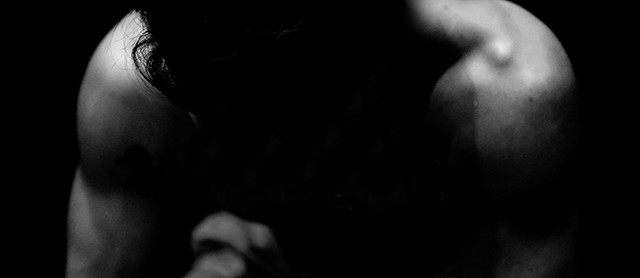
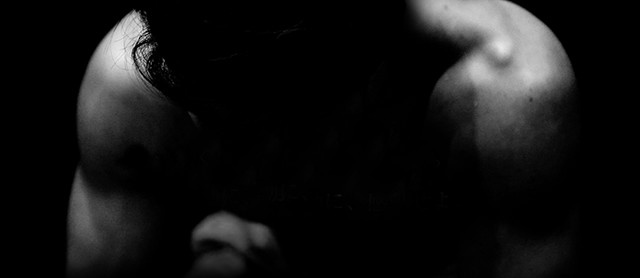
新規アカウント登録（ID/PWD）: 開発 (Website / SP) #173
画像差し替え(コミット漏れ)

Changed region(s): [[0.2812, 0.9209, 0.4062, 1.0], [0.0938, 0.9209, 0.1875, 1.0], [0.8125, 0.9784, 0.8438, 1.0]]

diff --git a/_src/app/assets/css/module/_signup.scss b/_src/app/assets/css/module/_signup.scss
@@ -11,8 +11,8 @@
 .signup {
   width: 100%;
   min-height: 100%;
-  background: #000 url(/assets/images/signup/bg.jpg) center center no-repeat;
-  background-size: cover;
+  background: #000 url(/assets/images/signup/bg.jpg) center top no-repeat;
+  // background-size: cover;
 }
 
 
